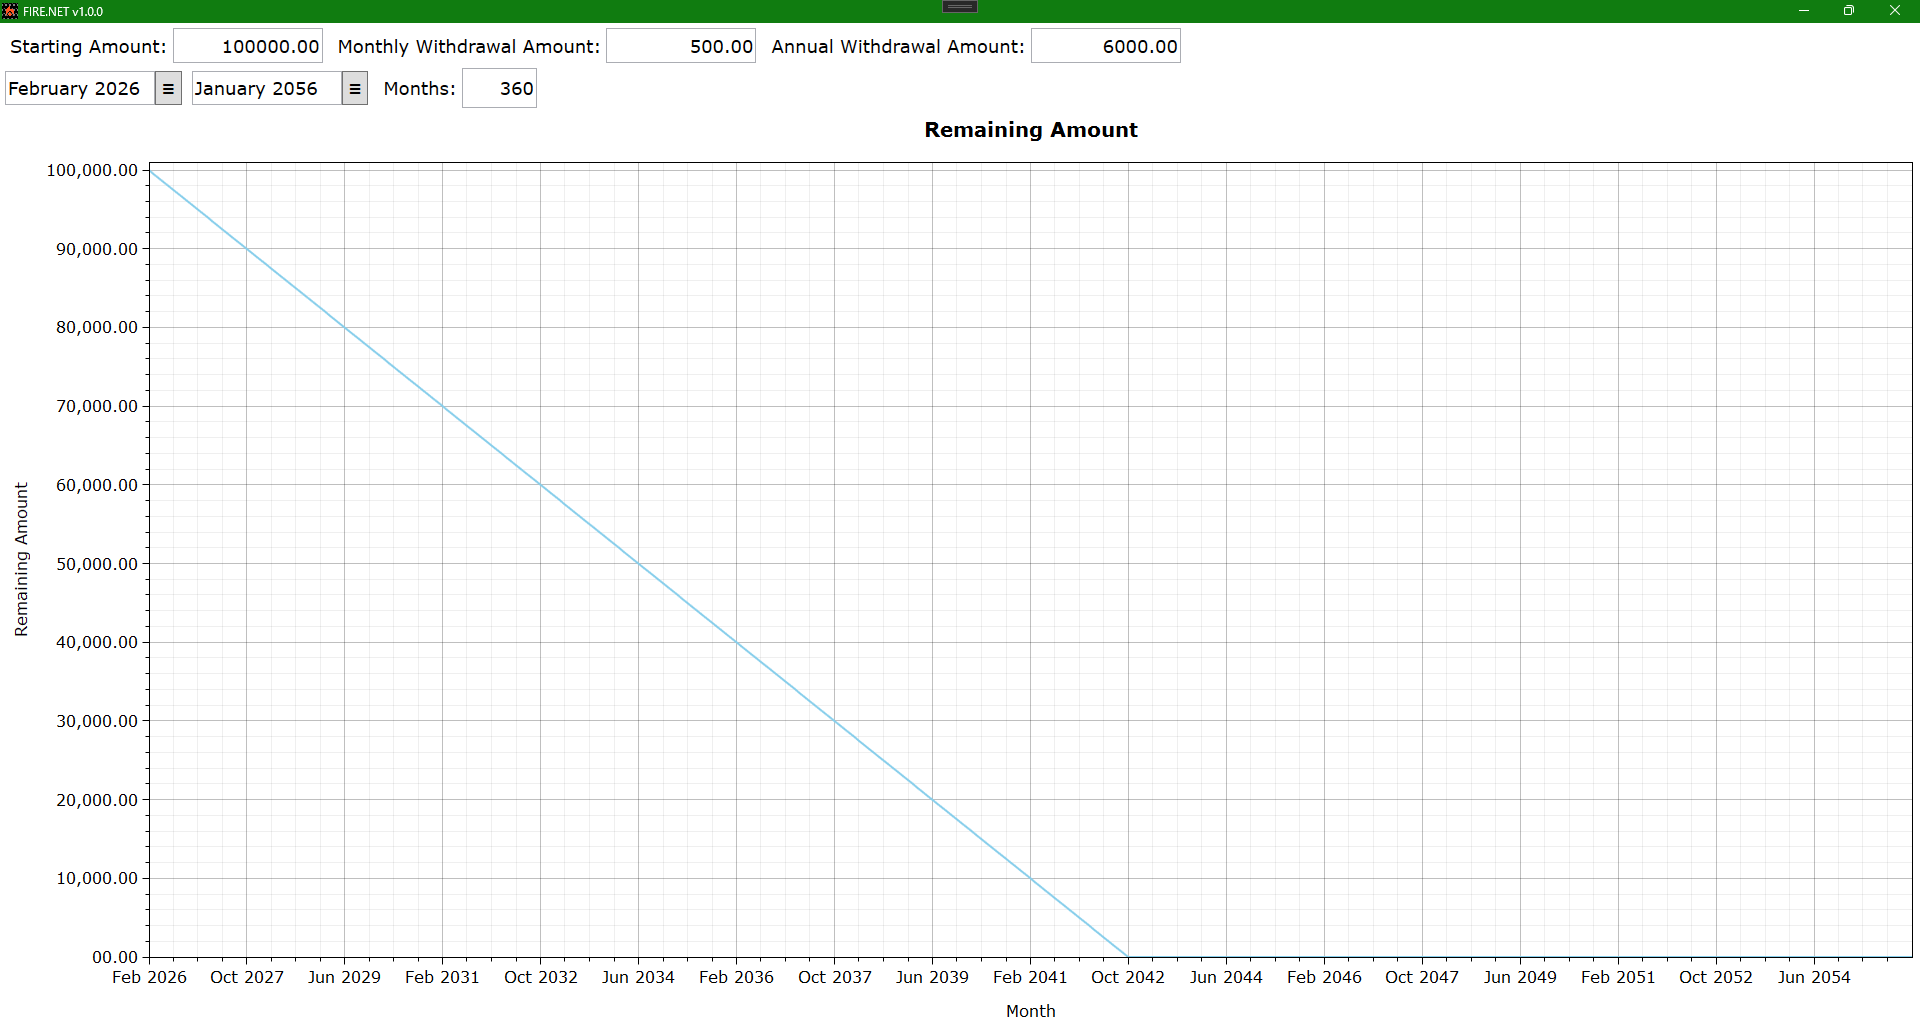
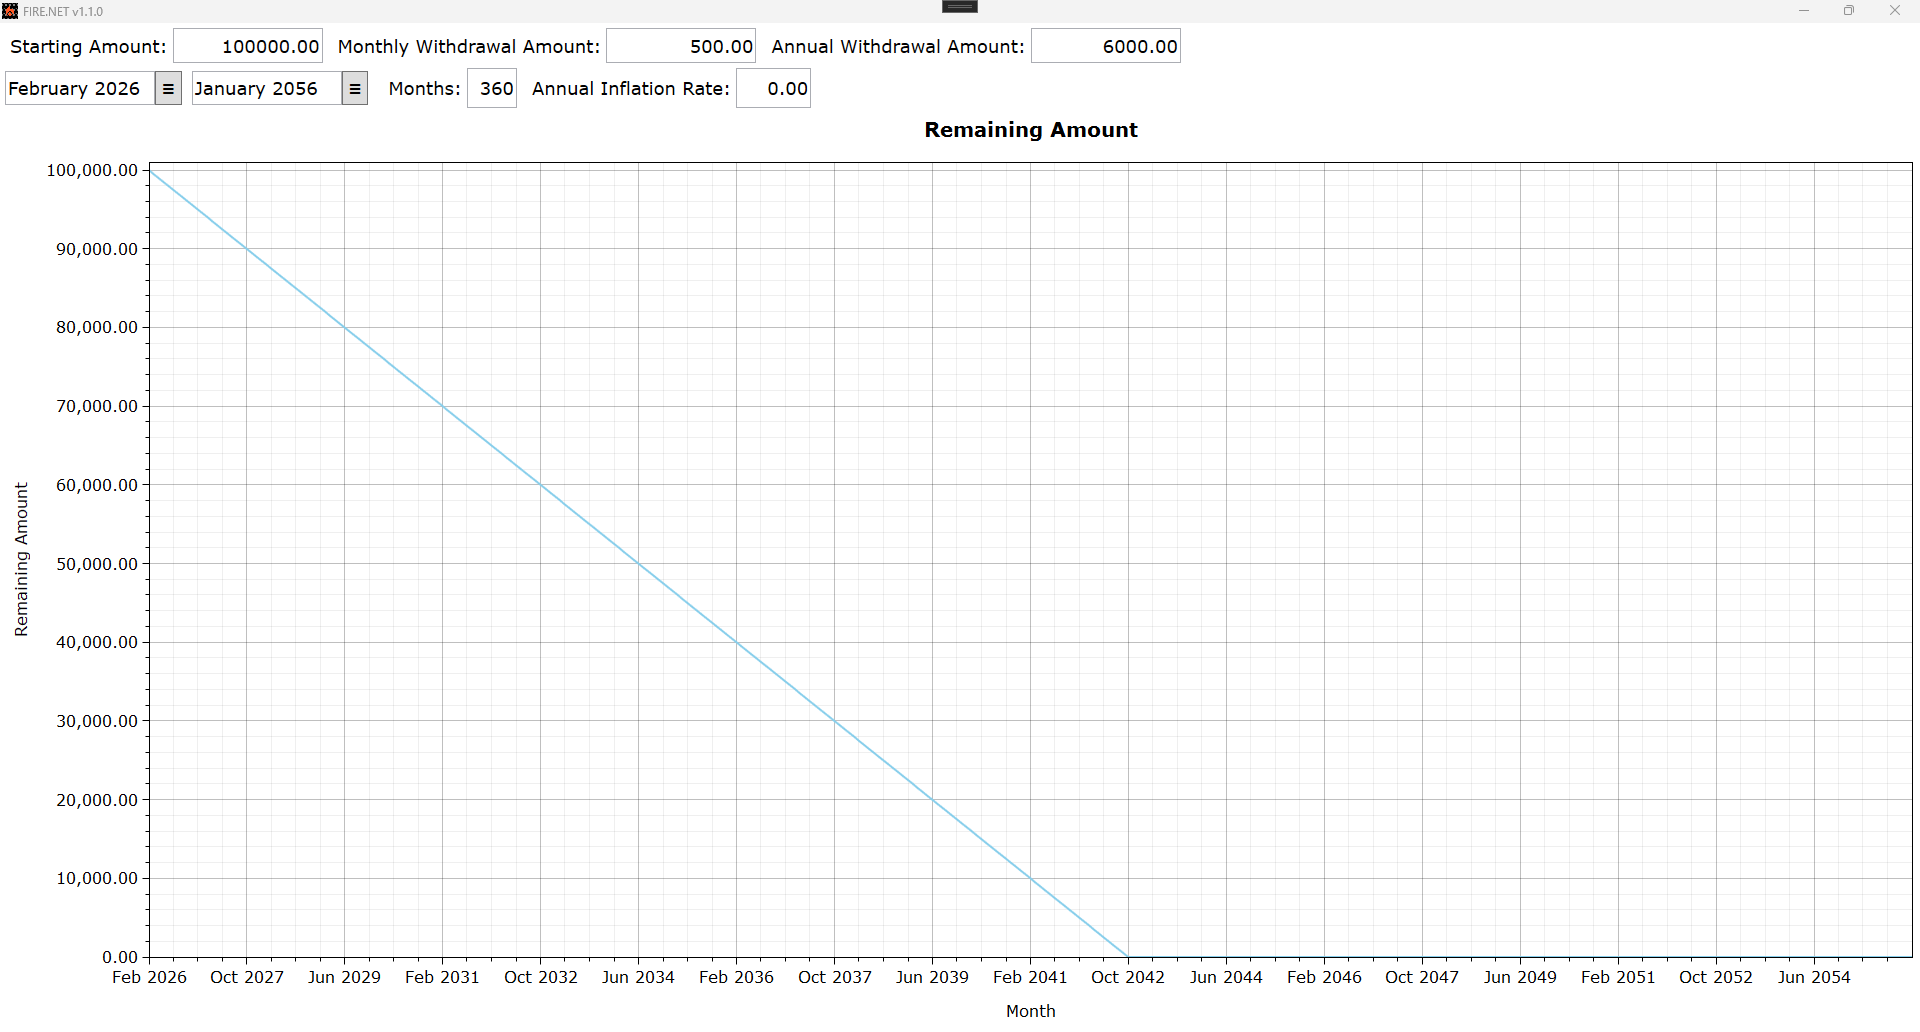
Added inflation rate to UI

Changed region(s): [[0.0, 0.0, 1.0, 0.031], [0.1875, 0.062, 0.4375, 0.093]]

diff --git a/FireDotNetUi/Views/MainView.xaml b/FireDotNetUi/Views/MainView.xaml
@@ -32,8 +32,10 @@
         <StackPanel Grid.Row="2" Orientation="Horizontal">
             <uc:MonthPicker SelectedDate="{Binding StartingMonth, Mode=TwoWay}" Margin="5,0" VerticalContentAlignment="Center" TextBoxWidth="150"/>
             <uc:MonthPicker SelectedDate="{Binding EndingMonth, Mode=TwoWay}" Margin="5,0" VerticalContentAlignment="Center" TextBoxWidth="150"/>
-            <Label Content="{x:Static r:Resources.MainView_DurationInMonths_Label}" VerticalContentAlignment="Center" Margin="5,0,0,0"/>
-            <TextBox Text="{Binding DurationInMonthsInput, UpdateSourceTrigger=LostFocus, Mode=TwoWay}" MinWidth="75" VerticalContentAlignment="Center" HorizontalContentAlignment="Right"/>
+            <Label Content="{x:Static r:Resources.MainView_DurationInMonths_Label}" VerticalContentAlignment="Center" Margin="10,0,0,0"/>
+            <TextBox Text="{Binding DurationInMonthsInput, UpdateSourceTrigger=LostFocus, Mode=TwoWay}" MinWidth="50" VerticalContentAlignment="Center" HorizontalContentAlignment="Right"/>
+            <Label Content="{x:Static r:Resources.MainView_AnnualInflationRate_Label}" VerticalContentAlignment="Center" Margin="10,0,0,0"/>
+            <TextBox Text="{Binding AnnualInflationRate, UpdateSourceTrigger=LostFocus}" MinWidth="75" VerticalContentAlignment="Center" HorizontalContentAlignment="Right" />
         </StackPanel>
         <oxy:PlotView Grid.Row="3" Model="{Binding PlotModelRemainingAmounts}"/>
     </Grid>

diff --git a/FireDotNetUi/ViewModels/MainViewModel.cs b/FireDotNetUi/ViewModels/MainViewModel.cs
@@ -24,6 +24,7 @@ namespace FireDotNetUi.ViewModels
             _startingMonth = _fireCalculator.StartingMonth;
             _endingMonth = _fireCalculator.EndingMonth;
             _durationInMonthsInput = _fireCalculator.DurationInMonths.ToString();
+            _annualInflationRate = _fireCalculator.AnnualInflationRate.ToString("0.00");
         }
 
         [ObservableProperty]
@@ -49,6 +50,31 @@ namespace FireDotNetUi.ViewModels
         [ObservableProperty]
         [NotifyPropertyChangedFor(nameof(EndingMonth))]
         private string _durationInMonthsInput = string.Empty;
+
+        [ObservableProperty]
+        private string _annualInflationRate;
+
+        partial void OnAnnualInflationRateChanged(string? oldValue, string newValue)
+        {
+            if (oldValue == null)
+                throw new ArgumentNullException(nameof(oldValue));
+
+            if (oldValue != newValue)
+            {
+                if (decimal.TryParse(newValue, System.Globalization.NumberStyles.Number,
+                    System.Globalization.CultureInfo.CurrentCulture, out decimal parsedValue) &&
+                    parsedValue >= 0)
+                {
+                    _annualInflationRate = parsedValue.ToString("0.00");
+                    _fireCalculator.AnnualInflationRate = parsedValue;
+                    UpdatePlotModel();
+                }
+                else
+                {
+                    AnnualInflationRate = oldValue;
+                }
+            }
+        }
 
         partial void OnDurationInMonthsInputChanged(string? oldValue, string newValue)
         {
@@ -192,7 +218,7 @@ namespace FireDotNetUi.ViewModels
                 TrackerFormatString = Properties.Resources.MainView_PlotModel_Month +
                                       ": {2:dd.MM.yyyy}\n" +
                                       Properties.Resources.MainView_PlotModel_RemainingAmount +
-                                      ": {4:0,0.00}",
+                                      ": {4:#,0.00}",
                 CanTrackerInterpolatePoints = false,
             };
             PlotModelRemainingAmounts.Series.Add(lineSeries);
@@ -210,7 +236,8 @@ namespace FireDotNetUi.ViewModels
                 IsZoomEnabled = false,
                 IsPanEnabled = false,
                 Minimum = _fireCalculator.StartingMonth.ToOADate(),
-                Maximum = _fireCalculator.EndingMonth.ToOADate()
+                Maximum = _fireCalculator.EndingMonth.ToOADate(),
+                IntervalLength = 80
             };
             PlotModelRemainingAmounts.Axes.Add(dateAxis);
 
@@ -221,7 +248,7 @@ namespace FireDotNetUi.ViewModels
                 AxisTitleDistance = 20,
                 MajorGridlineStyle = LineStyle.Solid,
                 MinorGridlineStyle = LineStyle.Dot,
-                StringFormat = "0,0.00",
+                StringFormat = "#,0.00",
                 IsZoomEnabled = false,
                 IsPanEnabled = false,
                 Minimum = 0

diff --git a/FireDotNetUi/Properties/Resources.Designer.cs b/FireDotNetUi/Properties/Resources.Designer.cs
@@ -61,6 +61,15 @@ namespace FireDotNetUi.Properties {
         }
         
         /// <summary>
+        ///   Sucht eine lokalisierte Zeichenfolge, die Annual Inflation Rate: ähnelt.
+        /// </summary>
+        public static string MainView_AnnualInflationRate_Label {
+            get {
+                return ResourceManager.GetString("MainView_AnnualInflationRate_Label", resourceCulture);
+            }
+        }
+        
+        /// <summary>
         ///   Sucht eine lokalisierte Zeichenfolge, die Annual Withdrawal Amount: ähnelt.
         /// </summary>
         public static string MainView_AnnualWithdrawalAmount_Label {
@@ -115,7 +124,7 @@ namespace FireDotNetUi.Properties {
         }
         
         /// <summary>
-        ///   Sucht eine lokalisierte Zeichenfolge, die FIRE.NET v1.0.0 ähnelt.
+        ///   Sucht eine lokalisierte Zeichenfolge, die FIRE.NET v1.1.0 ähnelt.
         /// </summary>
         public static string MainView_Title {
             get {

diff --git a/README.md b/README.md
@@ -1,6 +1,6 @@
 # FIRE.NET - Just another FIRE calculator
 
-Current version: v1.0.0
+Current version: v1.1.0
 
 ## Features
 - Shows the remaining amount for the months in a chart based on the choosen parameters
@@ -11,6 +11,7 @@ Current version: v1.0.0
 	- Starting month
 	- Ending month
 	- Number of months
+	- Annual inflation rate
 
 ![FIRE.NET](/README-Images/FIRE.NET.png)
 	 
@@ -18,7 +19,7 @@ Current version: v1.0.0
 - C# / .NET / WPF
 - MVVM design pattern
 - [OxyPlot](https://github.com/oxyplot/oxyplot) for charting
-- MSTest for unit testing
+- MSTest with [FluentAssertion](https://github.com/fluentassertions/fluentassertions) for unit testing
 
 ## How to use
 1. Download the [latest release](https://github.com/FalkoGebel/FIRE.NET/releases/latest) from the [releases page](https://github.com/FalkoGebel/FIRE.NET/releases)
